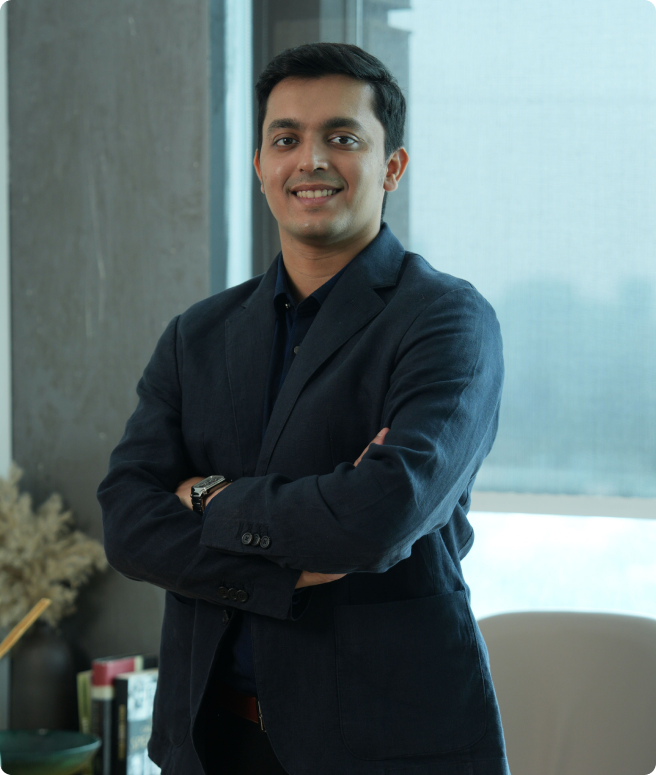
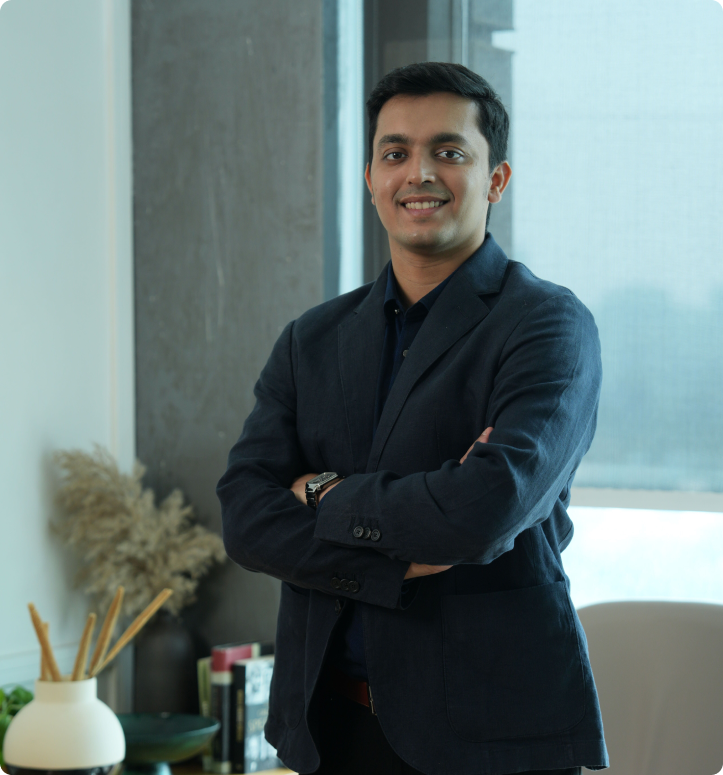
Updated the changes on contact and about pages

diff --git a/app/about/page.tsx b/app/about/page.tsx
@@ -27,44 +27,26 @@ const heroContent = {
 Backed by 15+ years of experience, we blend people, process, and technology to run high-volume operational environments with precision.`,
 };
 
-const leaders: Leader[] = [
-  {
-    id: 1,
-    name: "Rahul Das",
-    role: "Director, Operations",
-    description:
-      "Rahul Das transforms vision into disciplined, large-scale execution on the ground. An Electrical Engineering graduate from Rose-Hulman Institute of Technology, USA. He leads PAN-India workforce deployment, 3PL operations, and logistics execution with engineering precision. His focus is on process control, consistency, and scalability, ensuring reliable outcomes at every site.",
-    image: "/images/leaders/rahul-das.png",
-  },
-  // {
-  //   id: 2,
-  //   name: "Mamta Das",
-  //   role: "Founder & Chairperson",
-  //   description:
-  //     "Pioneering woman leader driving India’s workforce empowerment and governance excellence",
-  //   image: "/images/leaders/mamta-das.png",
-  // },
-  // {
-  //   id: 3,
-  //   name: "Rishikant Shinde",
-  //   role: "Governance Advisor",
-  //   description:
-  //     "Expert in labour compliance, Mathadi, industrial relations & welfare.",
-  //   image: "/images/leaders/rishikant-shinde.png",
-  // },
-];
+const rahulData =
+{
+  id: 1,
+  name: "Rahul Das",
+  role: "Director, Operations",
+  description:
+    "Rahul Das transforms vision into disciplined, large-scale execution on the ground. An Electrical Engineering graduate from Rose-Hulman Institute of Technology, USA. He leads PAN-India workforce deployment, 3PL operations, and logistics execution with engineering precision. His focus is on process control, consistency, and scalability, ensuring reliable outcomes at every site.",
+  image: "/images/leaders/rahul-das.png",
+};
 
-const rohitData: Leader[] = [
-  {
-    id: 1,
-    name: "Rohit Gaikwad",
-    role: "Business Head, HR Operations & Supply Chain",
-    description:
-      "Rohit Gaikwad brings over 15 years of leadership across retail, workforce operations, and supply chain execution, with deep expertise in ER–IR, compliance governance, and SOP-driven scale. A commerce graduate from the University of Mumbai, he has led large-format retail and enterprise operations for brands. At Express HR Solutions, he anchors operational strategy, workforce governance, and execution discipline, ensuring stability and compliance at scale.",
-    image: "/images/leaders/rahul-das.png",
-    reverse: true
-  },
-]
+const rohitData =
+{
+  id: 1,
+  name: "Rohit Gaikwad",
+  role: "Business Head, HR Operations & Supply Chain",
+  description:
+    "Rohit Gaikwad brings over 15 years of leadership across retail, workforce operations, and supply chain execution, with deep expertise in ER–IR, compliance governance, and SOP-driven scale. A commerce graduate from the University of Mumbai, he has led large-format retail and enterprise operations for brands. At Express HR Solutions, he anchors operational strategy, workforce governance, and execution discipline, ensuring stability and compliance at scale.",
+  image: "/images/leaders/rahul-das.png",
+  reverse: true
+}
 
 const careerContent = {
   textLines: ["Careers"],
@@ -95,7 +77,7 @@ export default function AboutSection() {
 
       <SplitFeatureSection
         title="Vision"
-        description="To lead India’s transformation in on-ground execution — where skilled people and disciplined processes create predictable outcomes."
+        description="To lead India’s transformation in on-ground execution where skilled people and disciplined processes create predictable outcomes."
         image="/images/vision-about-mask.png"
         // topDecoration="/images/logos/left.svg"
         reverse
@@ -105,9 +87,23 @@ export default function AboutSection() {
 
       <CurvedDivider />
 
-      <LeadershipSection leaders={leaders} />
+      <SplitFeatureSection
+        title={rahulData?.name}
+        description={rahulData?.description}
+        subDescription={rahulData?.role}
+        image={rahulData?.image}
+        reverse
+      />
 
-      <LeadershipSection leaders={rohitData} />
+      <SplitFeatureSection
+        title={rohitData?.name}
+        description={rohitData?.description}
+        subDescription={rohitData?.role}
+        image={rohitData?.image}
+      />
+      {/* <LeadershipSection leaders={leaders} />
+
+      <LeadershipSection leaders={rohitData} /> */}
 
       <div className="mt-10 md:mt-30">
         <GridTypewriter

diff --git a/components/about/SplitFeatureSection.tsx b/components/about/SplitFeatureSection.tsx
@@ -9,6 +9,7 @@ interface SplitFeatureSectionProps {
   image: string;
   topDecoration?: string;
   reverse?: boolean;
+  subDescription?: string;
 }
 
 export default function SplitFeatureSection({
@@ -17,9 +18,10 @@ export default function SplitFeatureSection({
   image,
   topDecoration,
   reverse = false,
+  subDescription
 }: SplitFeatureSectionProps) {
   return (
-    <section className="w-full py-[30px] md:py-[50px] px-4 md:pl-[30px]">
+    <section className="w-full py-[30px] md:py-[50px] px-4 md:pl-[30px] ">
       <div
         className={cn(
           "flex flex-col md:flex-row items-center justify-between gap-8 max-w-[1440px] mx-auto",
@@ -27,23 +29,26 @@ export default function SplitFeatureSection({
         )}
       >
         {/* CONTENT */}
-        <div className="w-full md:w-1/2 overflow-hidden pl-0 md:pl-[40px]">
+        <div className="w-full md:w-1/2 overflow-hidden pl-0 md:pl-[40px]  order-2 md:order-1">
           <h1 className="text-black text-[32px] md:text-[48px] lg:text-[64px] mb-4"
             style={{
               fontFamily: 'Instrument Sans',
               fontWeight: 600,
               lineHeight: '1.05',
             }}>{title}</h1>
-          <p className="" style={{
+          {subDescription && <p className="mt-2 mb-4 text-[25px] text-gray-600">
+            {subDescription}
+          </p>}
+          {description && <p className="" style={{
             fontFamily: 'Instrument Sans',
-            fontSize: 'clamp(18px, 1.6vw, 24px)', // responsive text size
+            fontSize: 'clamp(18px, 1.6vw, 20px)', // responsive text size
             lineHeight: '1.6',
             maxWidth: '500px',
-          }}>{description}</p>
+          }}>{description}</p>}
         </div>
         {/* IMAGE WRAPPER */}
-        <div className="relative w-full md:w-1/2 aspect-[4/3] overflow-hidden">
-          <div className="relative w-full h-full p-5">
+        <div className="relative w-full md:w-1/2 overflow-hidden">
+          <div className="relative w-full h-full p-0 md:p-5">
             {/* Decoration */}
             {/* <div className="absolute top-0 left-0 right-0 z-10 pointer-events-none">
             <Image
@@ -55,15 +60,17 @@ export default function SplitFeatureSection({
             />
           </div> */}
 
-            {/* Card Image */}
-            <Image
-              src={image}
-              alt={`${title}_image`}
-              fill
-              className="object-cover"
-              sizes="(max-width: 768px) 100vw, 50vw"
-              style={{ borderRadius: "12px" }}
-            />
+            <div className="w-full">
+              <Image
+                src={image}
+                alt="image"
+                width={800}
+                height={600}
+                className="w-full h-auto object-contain"
+              />
+            </div>
+
+
           </div>
         </div>
       </div>

diff --git a/app/careers/page.tsx b/app/careers/page.tsx
@@ -16,7 +16,7 @@ const heroContent = {
 export default function ContactSection() {
   return (
     <>
-      <section className="h-[10rem] w-full bg-white"></section>
+      <section className="h-[13rem] w-full bg-white"></section>
 
       <div
         className="text-center text-[28px] sm:text-[40px] lg:text-[64px] font-semibold leading-tight mb-6"
@@ -28,14 +28,24 @@ export default function ContactSection() {
 
       {/* <GridTypewriter textLines={heroContent.textLines} desc={""} /> */}
 
-      <section className="px-6 md:px-20 py-8 md:py-16 max-w-7xl mx-auto">
-        <div className="grid grid-cols-1 lg:grid-cols-3 gap-16">
-          <ContactInfo />
-          <div className="lg:col-span-2 space-y-24">
-            <h1 className="text-[40px] lg:text-[64px] font-semibold mb-5 md:mb-12" style={{ lineHeight: '64px' }}>
-              Careers
-            </h1>
-            <CareerForm />
+      <section className="py-8 md:py-16">
+        <div className="mx-auto w-full lg:max-w-[1400px] px-4">
+          <div className="grid grid-cols-1 lg:grid-cols-3 gap-8">
+
+            {/* Left section */}
+            <div className="border-b lg:border-b-0 lg:border-r border-gray-200 pr-0 lg:pr-8 pb-8 lg:pb-0">
+              <ContactInfo />
+            </div>
+
+            {/* Right section */}
+            <div className="lg:col-span-2 space-y-24 pl-0 lg:pl-8">
+              <h1
+                className="text-[40px] lg:text-[64px] font-semibold mb-5 md:mb-12"
+                style={{ lineHeight: '64px' }}
+              >Careers
+              </h1>
+              <CareerForm />
+            </div>
           </div>
         </div>
       </section>

diff --git a/app/contact-us/page.tsx b/app/contact-us/page.tsx
@@ -16,7 +16,7 @@ const heroContent = {
 export default function ContactSection() {
   return (
     <>
-      <section className="h-[10rem] w-full bg-white"></section>
+      <section className="h-[13rem] w-full bg-white"></section>
 
       {/* <GridTypewriter textLines={heroContent.textLines} desc={""} /> */}
 
@@ -28,18 +28,30 @@ export default function ContactSection() {
 
       <CurvedDivider />
 
-      <section className="px-6 md:px-20 py-8 md:py-16 max-w-7xl mx-auto">
-        <div className="grid grid-cols-1 lg:grid-cols-3 gap-16">
-          <ContactInfo />
+      <section className="py-8 md:py-16">
+        <div className="mx-auto w-full lg:max-w-[1400px] px-4">
+          <div className="grid grid-cols-1 lg:grid-cols-3 gap-8">
 
-          <div className="lg:col-span-2 space-y-24">
-            <h1 className="text-[40px] lg:text-[64px] font-semibold mb-5 md:mb-12" style={{ lineHeight: '64px' }}>
-              Contact Us
-            </h1>
-            <ContactForm />
+            {/* Left section */}
+            <div className="border-b lg:border-b-0 lg:border-r border-gray-200 pr-0 lg:pr-8 pb-8 lg:pb-0">
+              <ContactInfo />
+            </div>
+
+            {/* Right section */}
+            <div className="lg:col-span-2 space-y-24 pl-0 lg:pl-8">
+              <h1
+                className="text-[40px] lg:text-[64px] font-semibold mb-5 md:mb-12"
+                style={{ lineHeight: '64px' }}
+              >
+                Contact Us
+              </h1>
+              <ContactForm />
+            </div>
+
           </div>
         </div>
       </section>
+
     </>
   );
 }

diff --git a/components/Footer.tsx b/components/Footer.tsx
@@ -11,7 +11,8 @@ export default function Footer() {
       <div
         className="
           mx-auto max-w-[1400px]
-          px-6 md:px-0
+          px-6 md:px-10
+          pr-0 md:pr-30
           py-20
           grid
           grid-cols-1 md:grid-cols-[auto_1fr]
@@ -36,10 +37,11 @@ export default function Footer() {
           {/* CONTACT */}
           <div>
             <h4 className="font-[600] text-[20px] md:text-[24px] mb-3 md:mb-5 text-black font-[Instrument_Sans]">
-              Contact
+              <Link href="/contact-us">Contact</Link>
+
             </h4>
 
-            <ul className="space-y-4 text-gray-500 text-[18px] md:text-[24px] font-[Instrument_Sans]">
+            <ul className="space-y-4 text-gray-500 text-[18px] md:text-[20px] font-[Instrument_Sans]">
               <li>+91 99673 26161</li>
 
               <li>
@@ -94,10 +96,10 @@ export default function Footer() {
           {/* SERVICES */}
           <div className="pt-5 md:pt-0">
             <h4 className="font-[600] text-[20px] md:text-[24px] mb-3 md:mb-5 text-black font-[Instrument_Sans]">
-              Services
+              <Link href="/services">Services</Link>
             </h4>
 
-            <ul className="space-y-4 text-gray-500 text-[18px] md:text-[24px] font-[Instrument_Sans]">
+            <ul className="space-y-4 text-gray-500 text-[18px] md:text-[20px] font-[Instrument_Sans]">
               <li>
                 <Link href="/services">Warehouse</Link>
               </li>

diff --git a/components/contact/ContactInfo.tsx b/components/contact/ContactInfo.tsx
@@ -23,9 +23,9 @@ export default function ContactInfo() {
         <p className="text-[16px] md:text-[20px] mt-2 font-medium">
           Express HR Solutions Pvt. Ltd
           <br />
-          3A, ARENJA ARCADE, SECTOR 17,
+          3A, Arenja arcade, Sector 17,
           <br />
-          VASHI, Thane, Maharashtra, 400705
+          Vashi, Thane, Maharashtra, 400705
         </p>
       </div>
 

diff --git a/components/Navbar.tsx b/components/Navbar.tsx
@@ -78,10 +78,11 @@ const Navbar = () => {
     fixed left-1/2 -translate-x-1/2 z-50
     mt-20 w-[70%] md:w-[58%] py-[9px]
     transition-all duration-300
-    bg-[rgba(75,75,75,0.4)]
+    bg-[#0000004d]
     border border-white/10
     rounded-[9px]
   "
+  style={{backdropFilter: 'blur(30px)'}}
     >
       <div className="px-[9px] flex items-center justify-between">
         {/* Logo */}

diff --git a/components/about/LeadershipSection.tsx b/components/about/LeadershipSection.tsx
@@ -172,7 +172,7 @@ export default function LeadershipSection({ leaders }: Props) {
                   {current.role}
                 </p>
 
-                <p className="mt-6 text-[25px] leading-relaxed">
+                <p className="mt-6 text-[20px] leading-relaxed">
                   {current.description}
                 </p>
               </motion.div>

diff --git a/components/contact/ContactForm.tsx b/components/contact/ContactForm.tsx
@@ -57,7 +57,7 @@ export function ContactForm() {
       transition={{ duration: 0.6 }}
       className="space-y-8"
     >
-      <p className="text-orange-500 font-medium text-[20px]">
+      <p className="text-orange-500 font-medium text-[20px] md:text-[24px]">
         Get in touch with us for any Business enquiries and questions
       </p>
 

diff --git a/components/contact/CareerForm.tsx b/components/contact/CareerForm.tsx
@@ -55,7 +55,7 @@ export function CareerForm() {
       transition={{ duration: 0.6 }}
       className="space-y-8"
     >
-      <p className="text-orange-500 font-medium text-[20px]">
+      <p className="text-orange-500 font-medium text-[20px] md:text-[24px]">
         Get in touch with us for Career Opportunities
       </p>
 

diff --git a/components/contact/ContactField.tsx b/components/contact/ContactField.tsx
@@ -18,7 +18,7 @@ export default function ContactField({
 }: Props) {
   return (
     <div className="flex flex-col gap-1">
-      <label className="text-xs tracking-widest text-orange-500 uppercase">
+      <label className="text-[16px] md:text-[20px] text-orange-500 uppercase">
         {label}
       </label>
 
